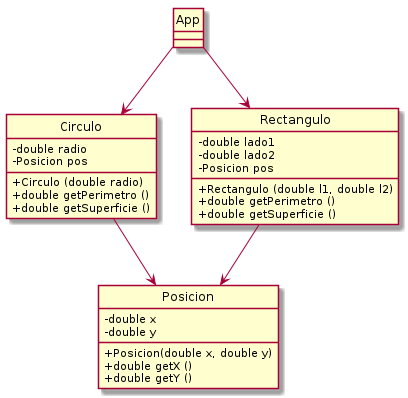
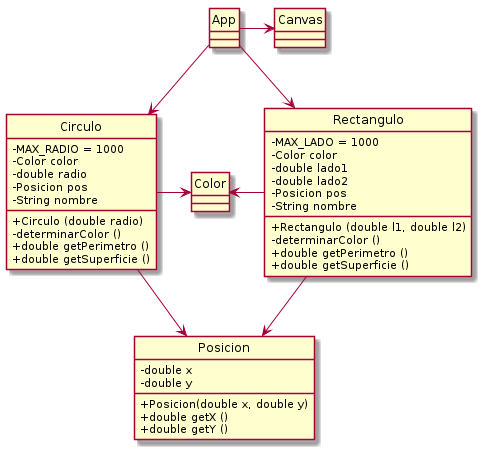
Estructura if para control de radio en el circulo
Tambien se implementa el color a utilizar

diff --git a/App.java b/App.java
@@ -3,44 +3,42 @@ import java.awt.Color;
 public class App {
     
     public static void main(String[] args) throws Exception {
-        System.out.println("Hello, World!");
-
-        Circulo miCirculo = new Circulo (45);
-        Circulo otroCirculo = new Circulo (98);
-
-        System.out.println(miCirculo.getRadio());
-        System.out.println(otroCirculo.getRadio());
-        
-        miCirculo.setRadio(60);
-        miCirculo.setX(250);
-        miCirculo.setY(250);
-        System.out.println(miCirculo.getRadio());
-
+        Circulo circulo1 = new Circulo (100);
+        Circulo circulo2 = new Circulo (300);
+        Circulo circulo3 = new Circulo (600);
         // Codificar acciones parecidas para la 
         // clase Rectangulo
         // Rectangulo ...
 
+        circulo1.setX(250);
+        circulo1.setY(250);
 
-        Canvas miVentana = new Canvas("Hola Ventana", 500, 500);
+        circulo2.setX(150);
+        circulo2.setY(150);
+
+        Canvas miVentana = new Canvas("Hola Ventana", 800, 600);
         miVentana.setVisible(true);
 
-        miVentana.setColorDeLapiz(Color.BLUE);
+        // Dibujamos el primer Circulo
+        // miVentana.setColorDeLapiz(Color.GREEN);
+        miVentana.setColorDeLapiz(circulo3.getColor());
+        miVentana.rellenarCirculo(circulo3.getX(), circulo3.getY(), circulo3.getDiametro());
 
-        miVentana.rellenarCirculo(miCirculo.getX(), miCirculo.getY(), miCirculo.getDiametro());
+        miVentana.setColorDeLapiz(circulo2.getColor());
+        miVentana.rellenarCirculo(circulo2.getX(), circulo2.getY(), circulo2.getDiametro());
 
-        miVentana.setColorDeLapiz(Color.GREEN);
-
-        miVentana.rellenarCirculo(otroCirculo.getX(), otroCirculo.getY(), otroCirculo.getDiametro());
+        miVentana.setColorDeLapiz(circulo1.getColor());
+        miVentana.rellenarCirculo(circulo1.getX(), circulo1.getY(), circulo1.getDiametro());
 
         // Dibujar un rectangulo de color ROJO (RED)
         // rellenarRectangulo(int xPos, int yPos, int ancho, int alto)
 
-        miVentana.espera(30000);
-        miVentana.borrarCirculo(miCirculo.getX(), miCirculo.getY(), miCirculo.getDiametro());
-        // miCirculo.setX(250);
-        miCirculo.setY(150);
-        miVentana.setColorDeLapiz(Color.BLUE);
-        miVentana.rellenarCirculo(miCirculo.getX(), miCirculo.getY(), miCirculo.getDiametro());
+        // miVentana.espera(30000);
+        // miVentana.borrarCirculo(circulo1.getX(), circulo1.getY(), circulo1.getDiametro());
+        // // circulo1.setX(250);
+        // circulo1.setY(150);
+        // miVentana.setColorDeLapiz(Color.BLUE);
+        // miVentana.rellenarCirculo(circulo1.getX(), circulo1.getY(), circulo1.getDiametro());
 
     }
 }

diff --git a/Circulo.java b/Circulo.java
@@ -1,3 +1,5 @@
+import java.awt.Color;
+
 // Modificador visibilidad - palabra reservada - Nombre de la clase
 // Identificadores son CamelCase
 public class Circulo {
@@ -7,7 +9,8 @@ public class Circulo {
     private static final int MAX_RADIO = 1000;
     // static -> campo de la clase
     // final -> hace que sea un valor constante (no modificable - inmutable)
-    private int radio; // int char
+    private Color color ;
+    private int radio = 10; // Valor inicial por si me dan uno fuera de rango
     private int x;
     private int y;
     // Aclaracion -> Datos tipo objeto Integer, Double, Char, Boolean
@@ -15,8 +18,31 @@ public class Circulo {
     // Comportamientos (metodos)
 
     // Constructor -> crear objetos de la clase
-    public Circulo (int r) {
-        radio = r;
+    public Circulo (int radio) {
+        setRadio(radio);
+        determinarColor();
+    }
+
+    /**
+     * Este metodo establece el color del circulo segun
+     * el radio configurado.
+     * 
+     * Si radio < 200  -> tiene color verde
+     * Si radio < 500  -> tiene color amarillo
+     * Si radio >= 500 -> tiene color rojo
+     */
+    private void determinarColor () {
+        if (radio < 200) {
+            setColor(Color.GREEN);
+        }
+        else {
+            if (radio < 500) {
+                setColor(Color.YELLOW);
+            }
+            else {
+                setColor(Color.RED);
+            }
+        }
     }
 
     public double getPerimetro () {
@@ -39,7 +65,9 @@ public class Circulo {
     public void setRadio(int radio) {
         // this = este
         // asignar radio al campo radio de este objeto
-        this.radio = radio;
+        if ((0 < radio) && (radio < MAX_RADIO)) {
+            this.radio = radio;
+        }
     }
 
     public int getX() {
@@ -56,6 +84,14 @@ public class Circulo {
 
     public void setY(int y) {
         this.y = y;
+    }
+
+    public Color getColor() {
+        return color;
+    }
+
+    public void setColor(Color color) {
+        this.color = color;
     }
 
 
